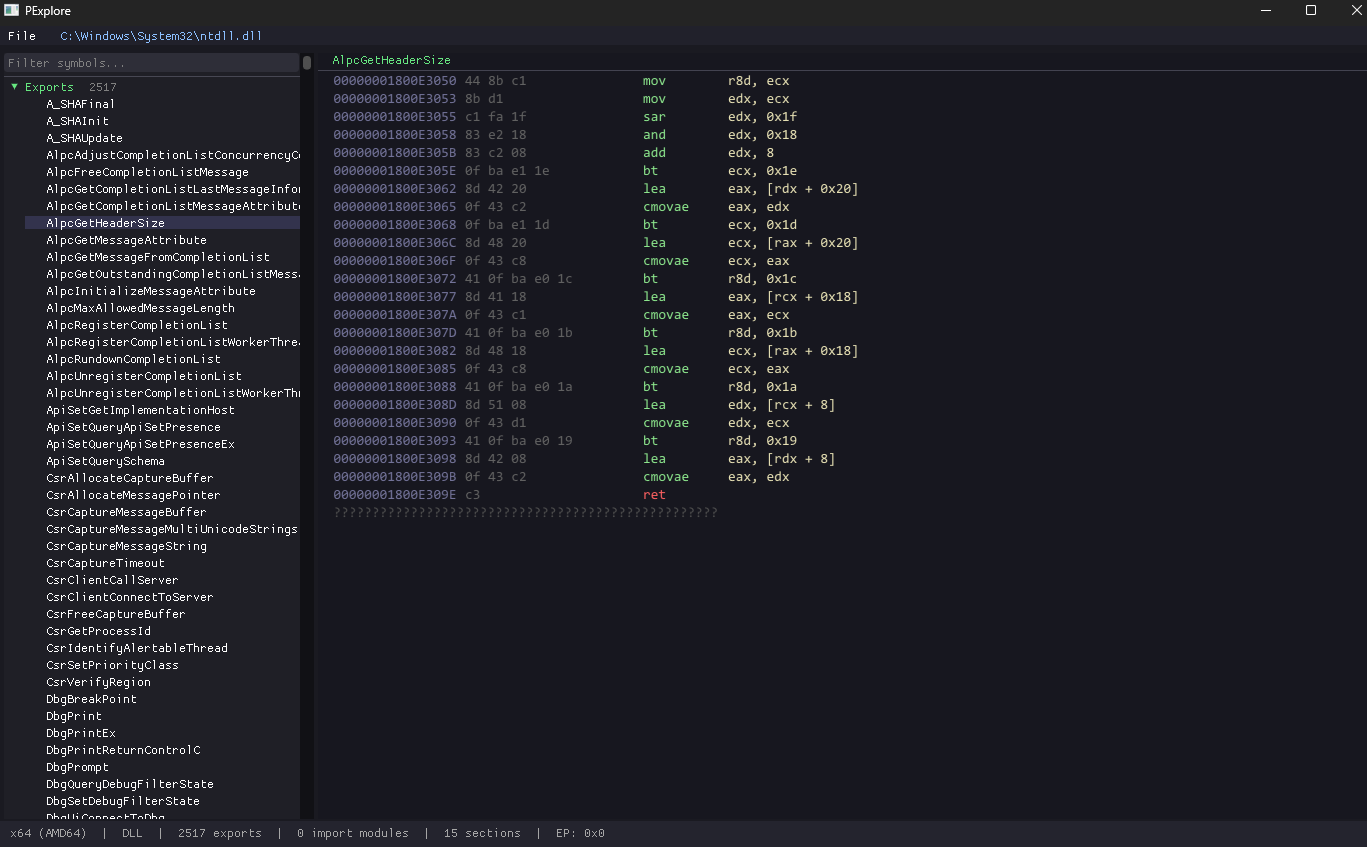
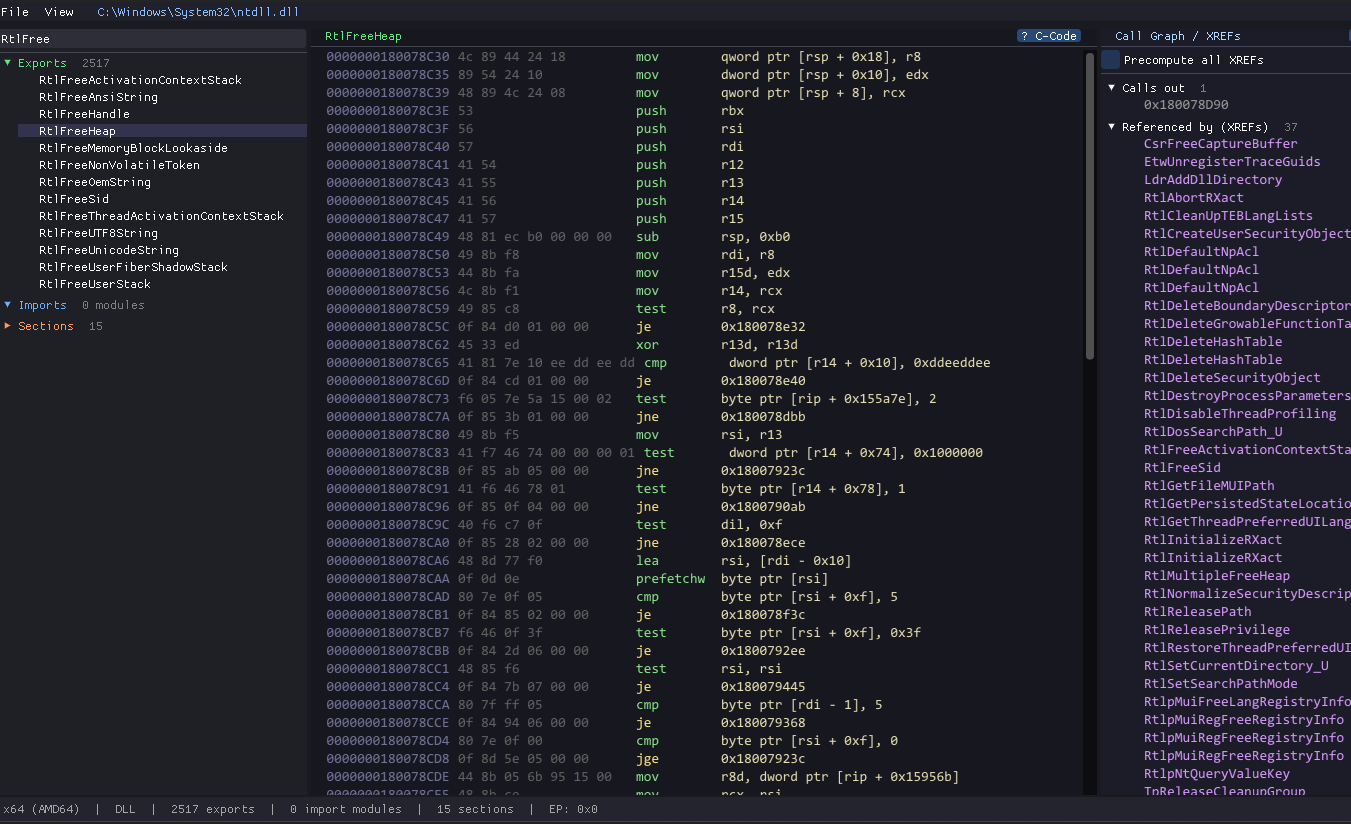
readme upd

diff --git a/README.md b/README.md
@@ -19,6 +19,8 @@ It provides a fast, minimal interface to explore:
 * imports
 * sections
 * disassembled code
+* xrefs
+* call graphs
 
 ---
 
@@ -31,6 +33,8 @@ It provides a fast, minimal interface to explore:
 * fast symbol filtering
 * drag & drop support
 * simple disassembler view (colored, readable)
+* xref / call graph panel
+* generate c pseudo-code
 
 ---
 
@@ -46,6 +50,7 @@ then:
 
 * Browse exports/imports/sections on the left
 * Click an exported function to disassemble it
+* See XREFs / Calls on the right
 
 ---
 
@@ -54,6 +59,8 @@ then:
 * `PeParser` → parses PE headers and tables
 * `Disassembler` → decodes instructions
 * `App` → UI + interaction (ImGui)
+* `PseudoCode Gen` → Generate C pseudo-code from ASM
+* `DllLoader` → Search system dirs for DLLs
 
 ---
 
